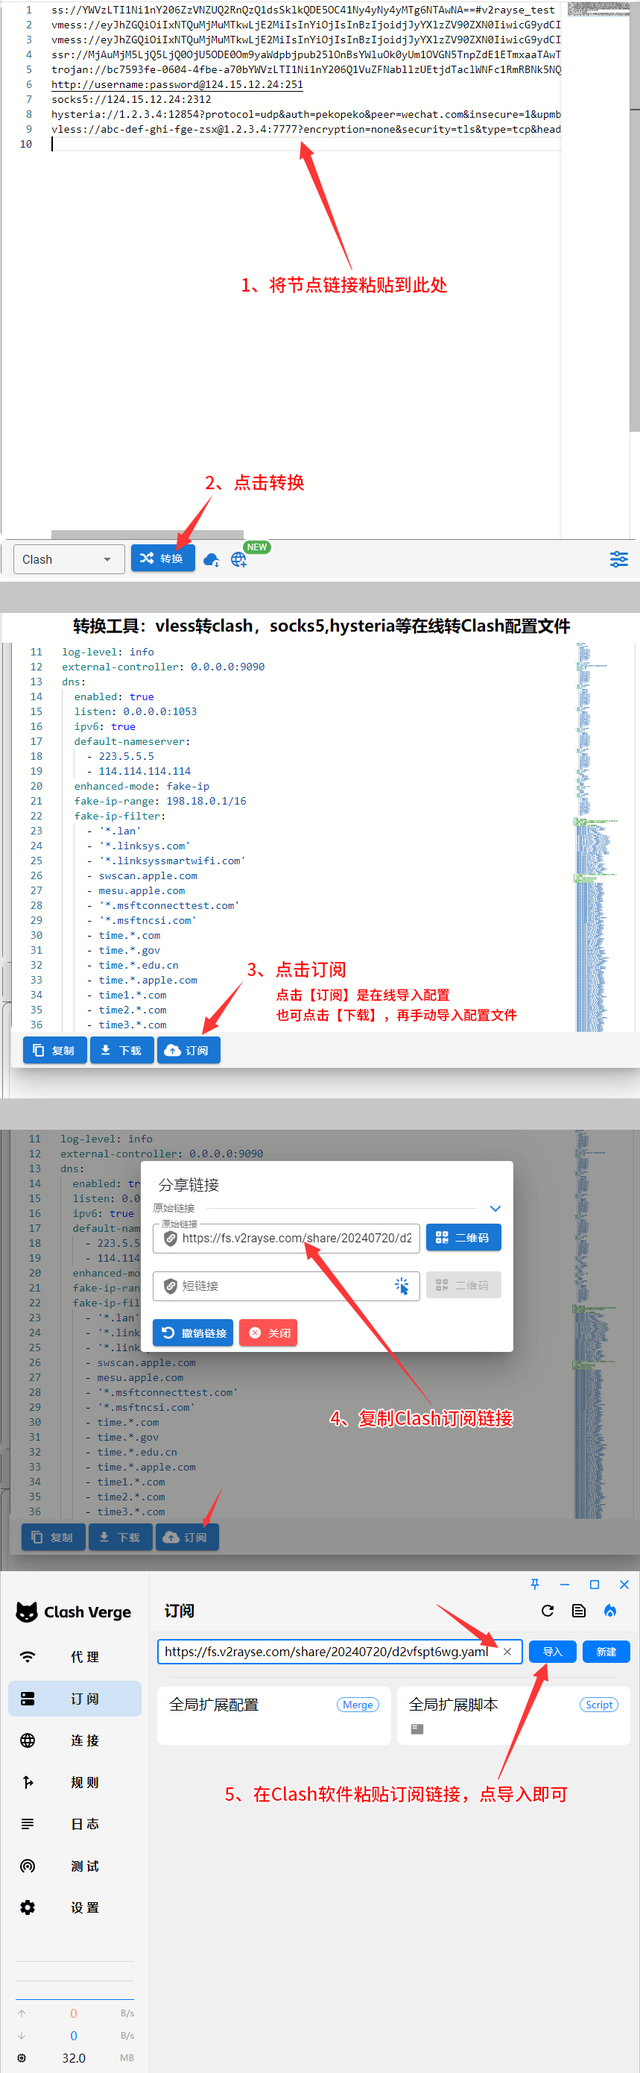
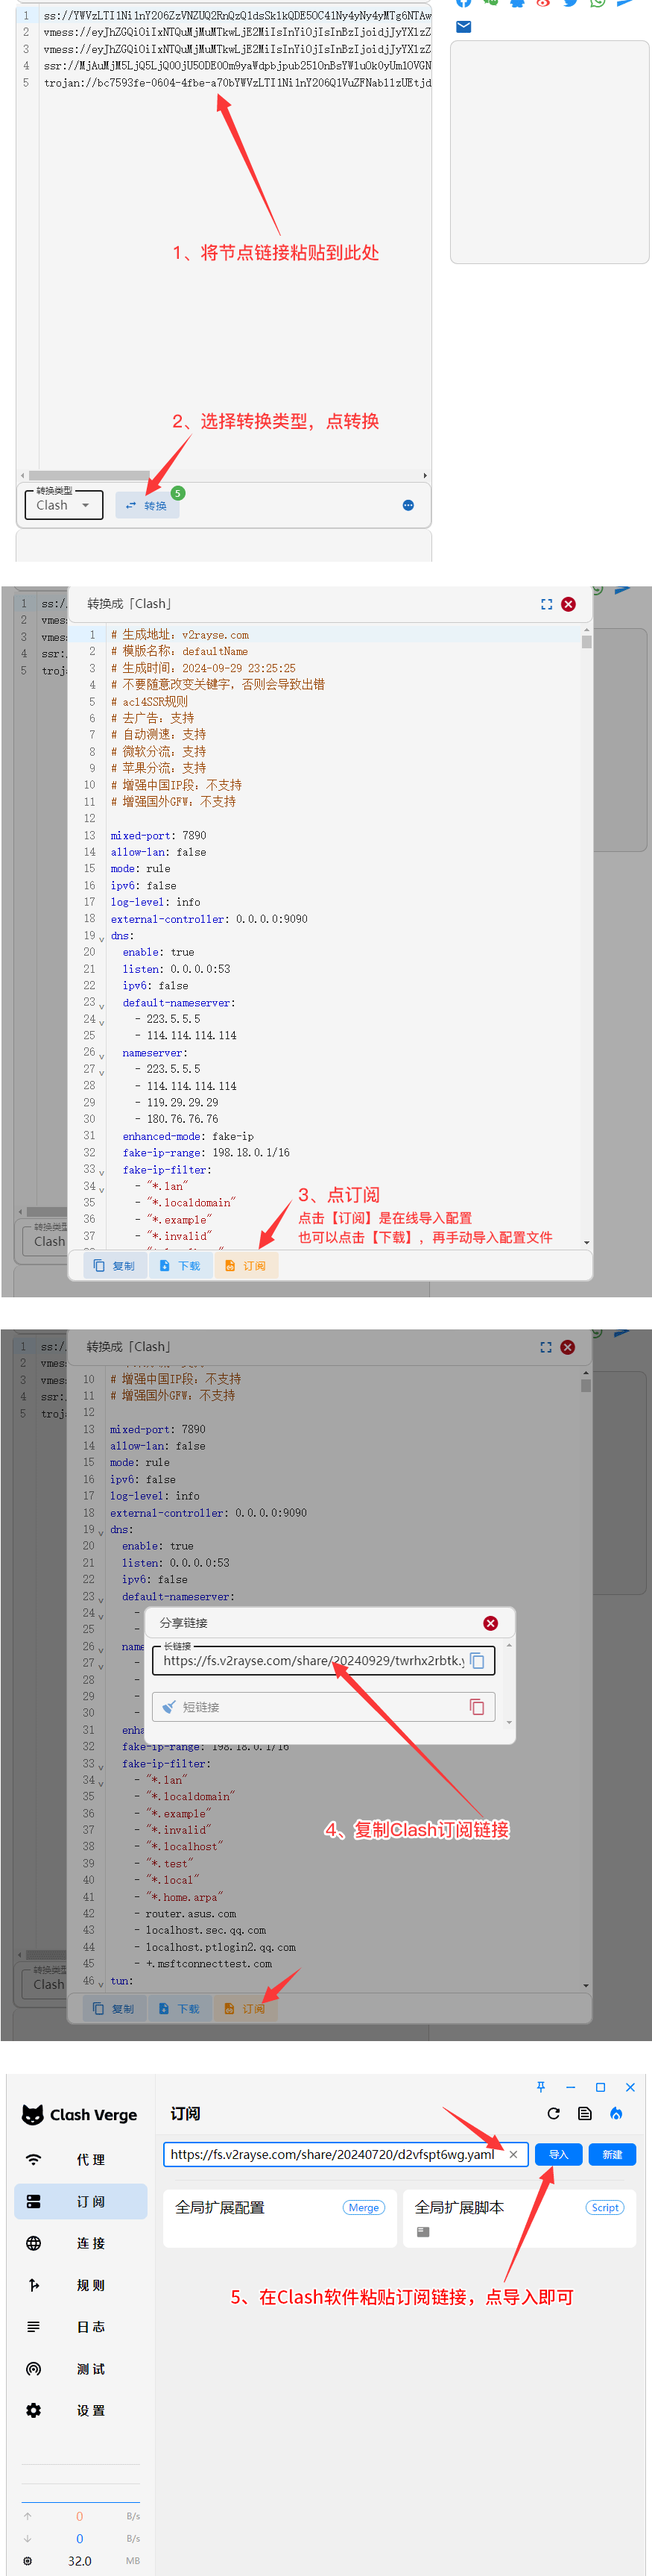
Add files via upload

diff --git a/socks/clash.html b/socks/clash.html
@@ -17,7 +17,7 @@ p{font-size:16px; line-height:1.5; color:#333;}
 <div style="position:relative; margin:0 auto; width:900px;">
 <div class="cs">
   <h1>转换工具：vless转clash，socks5,hysteria等在线转Clash配置文件</h1></div>
-<div style="width:880px; height:820px; overflow:hidden;">
+<div style="width:880px; height:1000px; overflow:hidden;">
 <object class="layout" data="https://v2rayse.com/node-convert/" width="900" height="1200"></object>
 </div>
 
